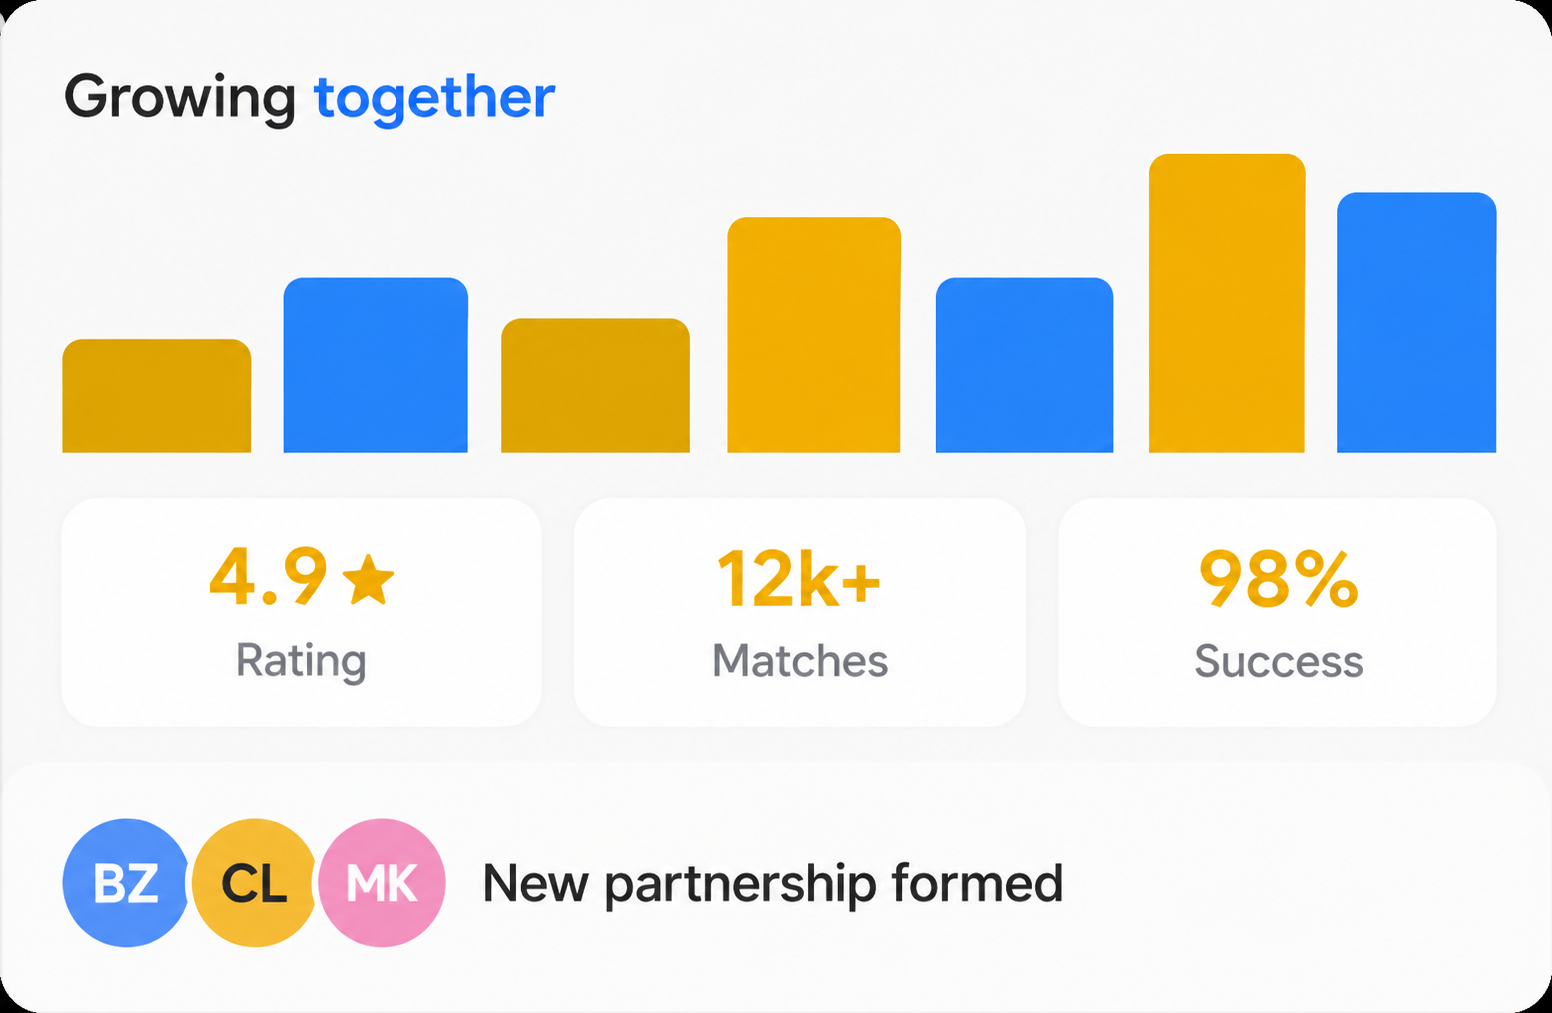
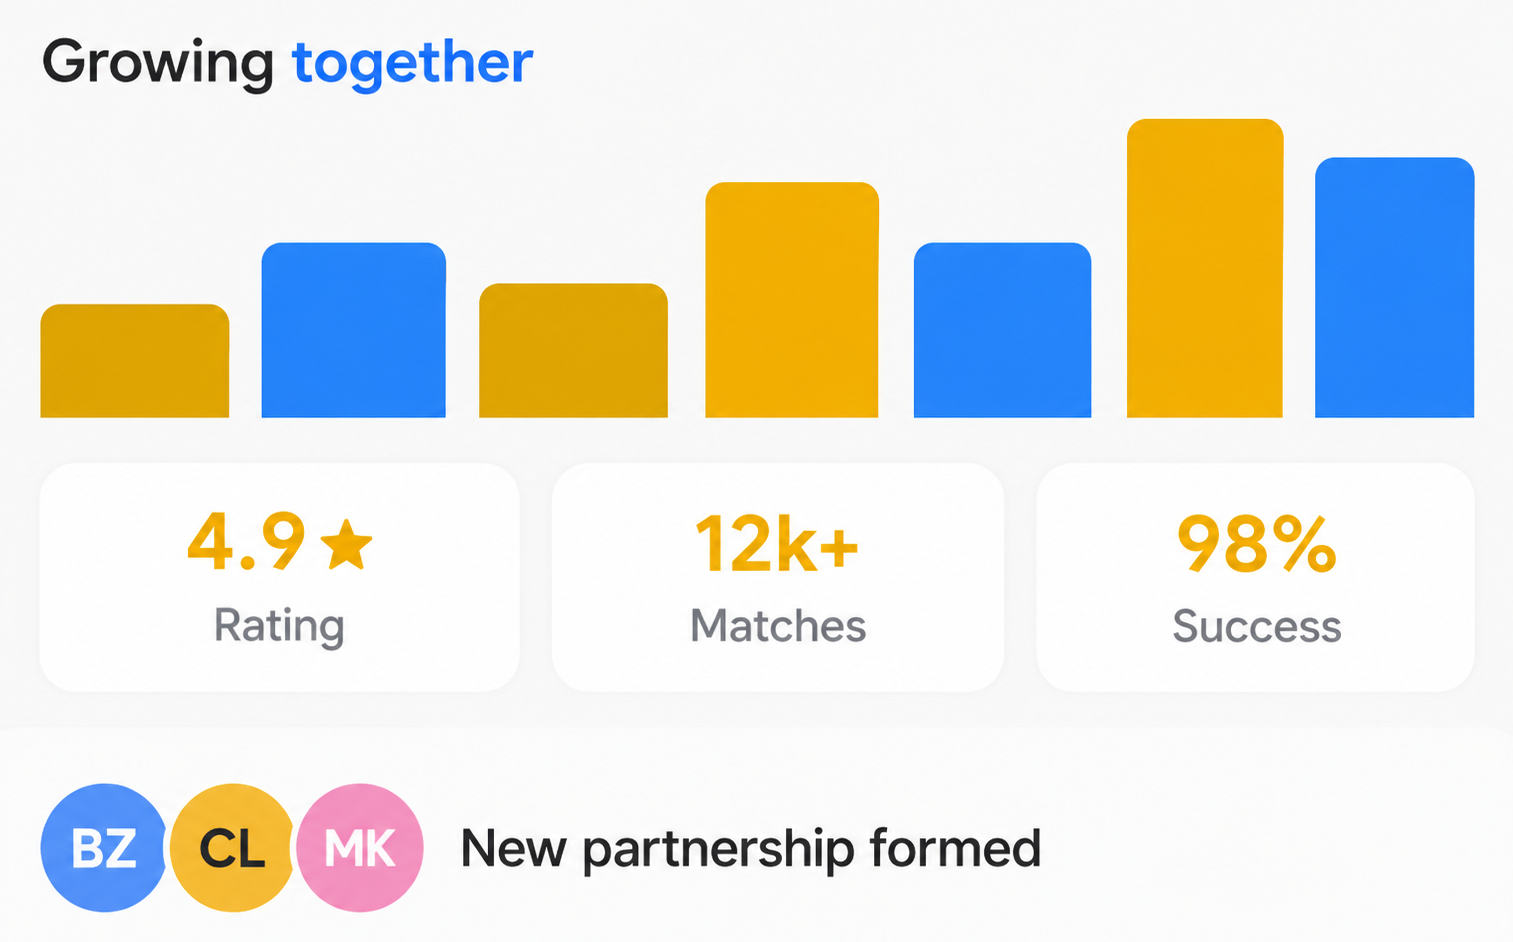
Refactor overlay image structure for improved styling and maintainability

diff --git a/src/components/WhyChooseSection.tsx b/src/components/WhyChooseSection.tsx
@@ -214,12 +214,16 @@ export default function WhyChooseSection({ id }: Props) {
                     </div>
 
                     {/* Overlay image — bottom right */}
-                    <img
-                      src={OVERLAY_SRCS[i]}
-                      alt=""
+                    <div
                       className="absolute bottom-0 right-0 z-20"
-                      style={{ height: '90%', width: 'auto', maxWidth: '52%', objectFit: 'contain', objectPosition: 'right bottom', display: 'block', borderRadius: 12 }}
-                    />
+                      style={{ height: '90%', maxWidth: '52%', borderRadius: 12, overflow: 'hidden' }}
+                    >
+                      <img
+                        src={OVERLAY_SRCS[i]}
+                        alt=""
+                        style={{ height: '100%', width: 'auto', display: 'block' }}
+                      />
+                    </div>
                   </div>
                 );
               })}
@@ -250,12 +254,16 @@ export default function WhyChooseSection({ id }: Props) {
                 </div>
 
                 {/* Overlay image — bottom right */}
-                <img
-                  src={OVERLAY_SRCS[i]}
-                  alt=""
+                <div
                   className="absolute bottom-0 right-0 z-20"
-                  style={{ height: '85%', width: 'auto', maxWidth: '55%', objectFit: 'contain', objectPosition: 'right bottom', display: 'block', borderRadius: 12 }}
-                />
+                  style={{ height: '85%', maxWidth: '55%', borderRadius: 12, overflow: 'hidden' }}
+                >
+                  <img
+                    src={OVERLAY_SRCS[i]}
+                    alt=""
+                    style={{ height: '100%', width: 'auto', display: 'block' }}
+                  />
+                </div>
               </div>
             ))}
           </div>